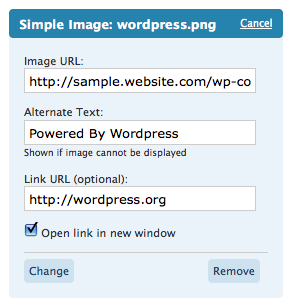
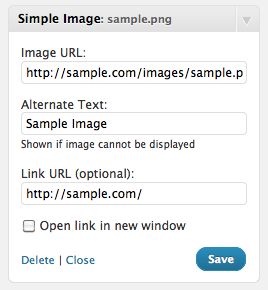
Tagging the 2.0 release
git-svn-id: https://plugins.svn.wordpress.org/simple-image-widget/tags/2.0@373080 b8457f37-d9ea-0310-8a92-e5e31aec5664

Changed region(s): [[0.0299, 0.0, 0.9851, 0.9931]]

diff --git a/simpleimage.php b/simpleimage.php
@@ -1,14 +1,14 @@
 <?php
 /*
 Plugin Name: Simple Image Widget
-Description: Using this widget you can easily place an image and link in the sidebar. Supports multiple instances, so you can use it multiple times in multiple sidebars. 
-Version: 1.3
+Description: Using this widget you can easily place an image and link in the sidebar. It supports multiple instances, so you can use it multiple times in multiple sidebars. 
+Version: 2.0
 Author: Chris Vickio
 Author URI: http://vickio.net
 */
 ?>
 <?php
-/*	Copyright 2008	Chris Vickio	(email : chris@vickio.net)
+/*	Copyright 2011	Chris Vickio	(email : chris@vickio.net)
 
 		This program is free software; you can redistribute it and/or modify
 		it under the terms of the GNU General Public License as published by
@@ -26,176 +26,99 @@ Author URI: http://vickio.net
 */
 ?>
 <?php
-// Displays an image in the sidebar
-// $widget_args: number
-//		number: which of the several widgets of this type do we mean
-function widget_simpleimage( $args, $widget_args = 1 ) {
-	extract( $args, EXTR_SKIP );
-	if ( is_numeric($widget_args) )
-		$widget_args = array( 'number' => $widget_args );
-	$widget_args = wp_parse_args( $widget_args, array( 'number' => -1 ) );
-	extract( $widget_args, EXTR_SKIP );
 
-	// Data is stored as array:	 array( number => data for that instance of the widget, ... )
-	$options = get_option('widget_simpleimage');
-	if ( !isset($options[$number]) )
-		return;
+// Inspired by the built-in WP_Widget_Text class
+class WP_Widget_Simple_Image extends WP_Widget {
+
+  // Set up the widget classname and description
+	function WP_Widget_Simple_Image() {
+		$widget_ops = array('classname' => 'widget_simpleimage', 'description' => __('Display an image'));
+		$control_ops = array();
+		$this->WP_Widget('simpleimage', __('Simple Image'), $widget_ops, $control_ops);
+	}
+
+  // Display the widget on the web site
+	function widget( $args, $instance ) {
+		extract($args);
+
+    // Optionally generate the link code
+  	if ($instance['link']) {
+  		if ($instance['new_window'])
+  			$before_image = "<a href=\"".$instance['link']."\" target=\"_blank\">";
+  		else
+  			$before_image = "<a href=\"".$instance['link']."\">";
+
+  		$after_image = "</a>";
+  	}		
 		
-	if ($options[$number]['link']) {
-		if ($options[$number]['new_window'])
-			$before_image = "<a href=\"".$options[$number]['link']."\" target=\"_blank\">";
-		else
-			$before_image = "<a href=\"".$options[$number]['link']."\">";
-
-		$after_image = "</a>";
-	}
-	
-	if ($options[$number]['image'])
-		$title = preg_replace('/\?.*/', "", basename($options[$number]['image']));
-	
-?>
-	<?php echo $before_widget; ?>
-	<div class="simpleimage">
-		<?php // Using HTML comments here, the admin interface is tricked into displaying the title, but it's not actually displayed on the site ?>
-		<?php if ( !empty( $title ) ) { echo "<!-- Control Title: " . $before_title . $title . $after_title . " -->"; } ?>
-		<?php echo $before_image; ?>
-		<p><img src="<?php echo $options[$number]['image']; ?>" alt="<?php echo $options[$number]['alt']; ?>" /></p>
-		<?php echo $after_image; ?>
-	</div>
-	<?php echo $after_widget; ?>
-<?php
-}
-
-// Displays form for image and link.	Also updates the data after a POST submit
-// $widget_args: number
-//		number: which of the several widgets of this type do we mean
-function widget_simpleimage_control( $widget_args = 1 ) {
-	global $wp_registered_widgets;
-	static $updated = false; // Whether or not we have already updated the data after a POST submit
-
-	if ( is_numeric($widget_args) )
-		$widget_args = array( 'number' => $widget_args );
-	$widget_args = wp_parse_args( $widget_args, array( 'number' => -1 ) );
-	extract( $widget_args, EXTR_SKIP );
-
-	// Data is stored as array:	 array( number => data for that instance of the widget, ... )
-	$options = get_option('widget_simpleimage');
-	if ( !is_array($options) )
-		$options = array();
-
-	// We need to update the data
-	if ( !$updated && !empty($_POST['sidebar']) ) {
-		// Tells us what sidebar to put the data in
-		$sidebar = (string) $_POST['sidebar'];
-
-		$sidebars_widgets = wp_get_sidebars_widgets();
-		if ( isset($sidebars_widgets[$sidebar]) )
-			$this_sidebar =& $sidebars_widgets[$sidebar];
-		else
-			$this_sidebar = array();
-
-		foreach ( $this_sidebar as $_widget_id ) {
-			if ( 'widget_simpleimage' == $wp_registered_widgets[$_widget_id]['callback'] && isset($wp_registered_widgets[$_widget_id]['params'][0]['number']) ) {
-				$widget_number = $wp_registered_widgets[$_widget_id]['params'][0]['number'];
-				if ( !in_array( "simpleimage-$widget_number", $_POST['widget-id'] ) ) // the widget has been removed
-					unset($options[$widget_number]);
-			}
-		}
-
-		foreach ( (array) $_POST['widget-simpleimage'] as $widget_number => $widget_simpleimage ) {
-			if ( !isset($widget_simpleimage['image']) && isset($options[$widget_number]) ) // user clicked cancel
-				continue;
-				
-			$image = wp_specialchars( $widget_simpleimage['image'] );
-			$alt = wp_specialchars( $widget_simpleimage['alt'] );
-			$link = wp_specialchars( $widget_simpleimage['link'] );
-			$new_window = isset( $widget_simpleimage['new_window'] );
-			$options[$widget_number] = compact('image', 'alt', 'link', 'new_window');
-		}
-
-		update_option('widget_simpleimage', $options);
-		$updated = true; // So that we don't go through this more than once
+  	echo $before_widget; ?>
+  	<div class="simpleimage">
+  	  <?php echo $before_image; ?>
+  		<img src="<?php echo $instance['image']; ?>" alt="<?php echo $instance['alt']; ?>" />
+  		<?php echo $after_image; ?>
+  	</div>
+  	<?php echo $after_widget;
 	}
 
-
-	// Here we echo out the form
-	if ( -1 == $number ) { // We echo out a template for a form which can be converted to a specific form later via JS
-		$image = '';
-		$alt = '';
-		$link = '';
-		$new_window = '';
-		$number = '%i%';
-	} else {
-		$image = attribute_escape($options[$number]['image']);
-		$alt = attribute_escape($options[$number]['alt']);
-		$link = attribute_escape($options[$number]['link']);
-		$new_window = attribute_escape($options[$number]['new_window']);
+  // Save the settings for this instance
+	function update( $new_instance, $old_instance ) {
+		$instance = $old_instance;
+		$instance['image'] = strip_tags($new_instance['image']);
+		$instance['alt'] = strip_tags($new_instance['alt']);
+		$instance['link'] = strip_tags($new_instance['link']);
+		$instance['new_window'] = isset($new_instance['new_window']);
+		return $instance;
 	}
+
+  // Display the widget form in the admin interface
+	function form( $instance ) {
+		$instance = wp_parse_args( (array) $instance, array( 'title' => '', 'image' => '', 'alt' => '', 'link' => '', 'new_window' => false ) );
+
+    // Generate a title based on the image URL
+		if ($instance['image'])
+  		$title = preg_replace('/\?.*/', "", basename($instance['image']));
 
 ?>
+    <?php // Hidden title field for the admin interface to display ?>
+    <input id="<?php echo $this->get_field_id('title'); ?>" name="<?php echo $this->get_field_name('title'); ?>" type="hidden" value="<?php echo $title; ?>" />
+
 		<p>
-			<label for="simpleimage-image-<?php echo $number; ?>">
+			<label for="<?php echo $this->get_field_id('image'); ?>">
 				<?php _e('Image URL:'); ?>
-				<input class="widefat" id="simpleimage-image-<?php echo $number; ?>" name="widget-simpleimage[<?php echo $number; ?>][image]" type="text" value="<?php echo $image; ?>" />
+				<input class="widefat" id="<?php echo $this->get_field_id('image'); ?>" name="<?php echo $this->get_field_name('image'); ?>" type="text" value="<?php echo $instance['image']; ?>" />
 			</label>
 		</p>
 
 		<p>
-			<label for="simpleimage-alt-<?php echo $number; ?>">
+			<label for="<?php echo $this->get_field_id('alt'); ?>">
 				<?php _e('Alternate Text:'); ?>
-				<input class="widefat" id="simpleimage-alt-<?php echo $number; ?>" name="widget-simpleimage[<?php echo $number; ?>][alt]" type="text" value="<?php echo $alt; ?>" />
+				<input class="widefat" id="<?php echo $this->get_field_id('alt'); ?>" name="<?php echo $this->get_field_name('alt'); ?>" type="text" value="<?php echo $instance['alt']; ?>" />
 				<br />
 				<small><?php _e( 'Shown if image cannot be displayed' ); ?></small>
 			</label>
 		</p>
 
 		<p>
-			<label for="simpleimage-link-<?php echo $number; ?>">
+			<label for="<?php echo $this->get_field_id('link'); ?>">
 				<?php _e('Link URL (optional):'); ?>
-				<input class="widefat" id="simpleimage-link-<?php echo $number; ?>" name="widget-simpleimage[<?php echo $number; ?>][link]" type="text" value="<?php echo $link; ?>" />
+				<input class="widefat" id="<?php echo $this->get_field_id('link'); ?>" name="<?php echo $this->get_field_name('link'); ?>" type="text" value="<?php echo $instance['link']; ?>" />
 			</label>
 		</p>
 
 		<p>
-			<label for="simpleimage-new-window-<?php echo $number; ?>">
-				<input id="simpleimage-new-window-<?php echo $number; ?>" name="widget-simpleimage[<?php echo $number; ?>][new_window]" type="checkbox" <?php if ($new_window) echo 'checked="checked"'; ?> />
+			<label for="<?php echo $this->get_field_id('new_window'); ?>">
+				<input id="<?php echo $this->get_field_id('new_window'); ?>" name="<?php echo $this->get_field_name('new_window'); ?>" type="checkbox" <?php if ($instance['new_window']) echo 'checked="checked"'; ?> />
 				<?php _e('Open link in new window'); ?>
 			</label>
 		</p>
-
-		<input type="hidden" id="widget-simpleimage-submit-<?php echo $number; ?>" name="widget-simpleimage[<?php echo $number; ?>][submit]" value="1" />
 <?php
-}
-
-// Registers each instance of widget on startup
-function widget_simpleimage_register() {
-	if ( !$options = get_option('widget_simpleimage') )
-		$options = array();
-
-	$widget_ops = array('classname' => 'widget_simpleimage', 'description' => __('Display an image'));
-	$control_ops = array( 'id_base' => 'simpleimage');
-	$name = __('Simple Image');
-
-	$registered = false;
-	foreach ( array_keys($options) as $o ) {
-		// Old widgets can have null values for some reason
-		if ( !isset($options[$o]['image']) )
-			continue;
-
-		$id = "simpleimage-$o"; // Never never never translate an id
-		$registered = true;
-		wp_register_sidebar_widget( $id, $name, 'widget_simpleimage', $widget_ops, array( 'number' => $o ) );
-		wp_register_widget_control( $id, $name, 'widget_simpleimage_control', $control_ops, array( 'number' => $o ) );
-	}
-
-	// If there are none, we register the widget's existance with a generic template
-	if ( !$registered ) {
-		wp_register_sidebar_widget( 'simpleimage-1', $name, 'widget_simpleimage', $widget_ops, array( 'number' => -1 ) );
-		wp_register_widget_control( 'simpleimage-1', $name, 'widget_simpleimage_control', $control_ops, array( 'number' => -1 ) );
 	}
 }
 
-// Hook for the registration
-add_action( 'widgets_init', 'widget_simpleimage_register' )
+// Init function for registering the widget
+function widget_simpleimage_init() {
+  register_widget('WP_Widget_Simple_Image');
+}
+add_action('init', 'widget_simpleimage_init', 1);
 
 ?>
